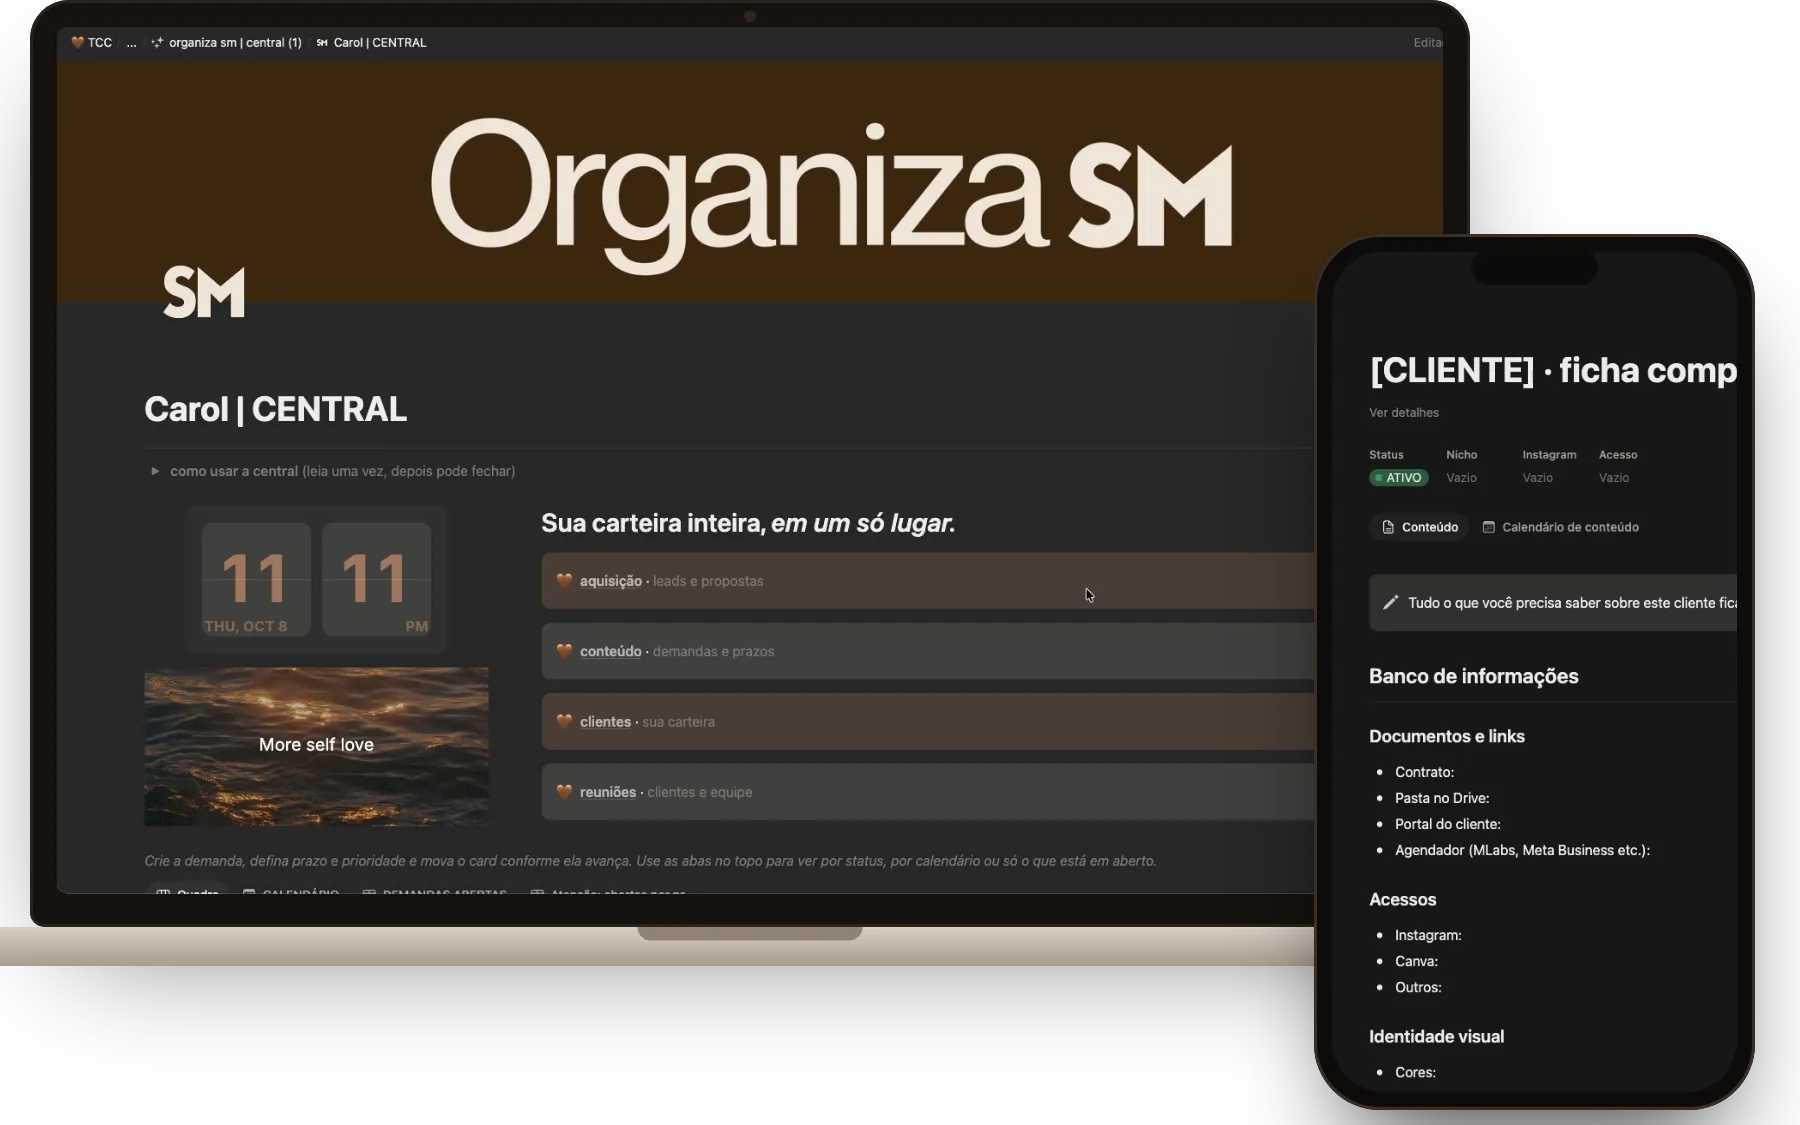
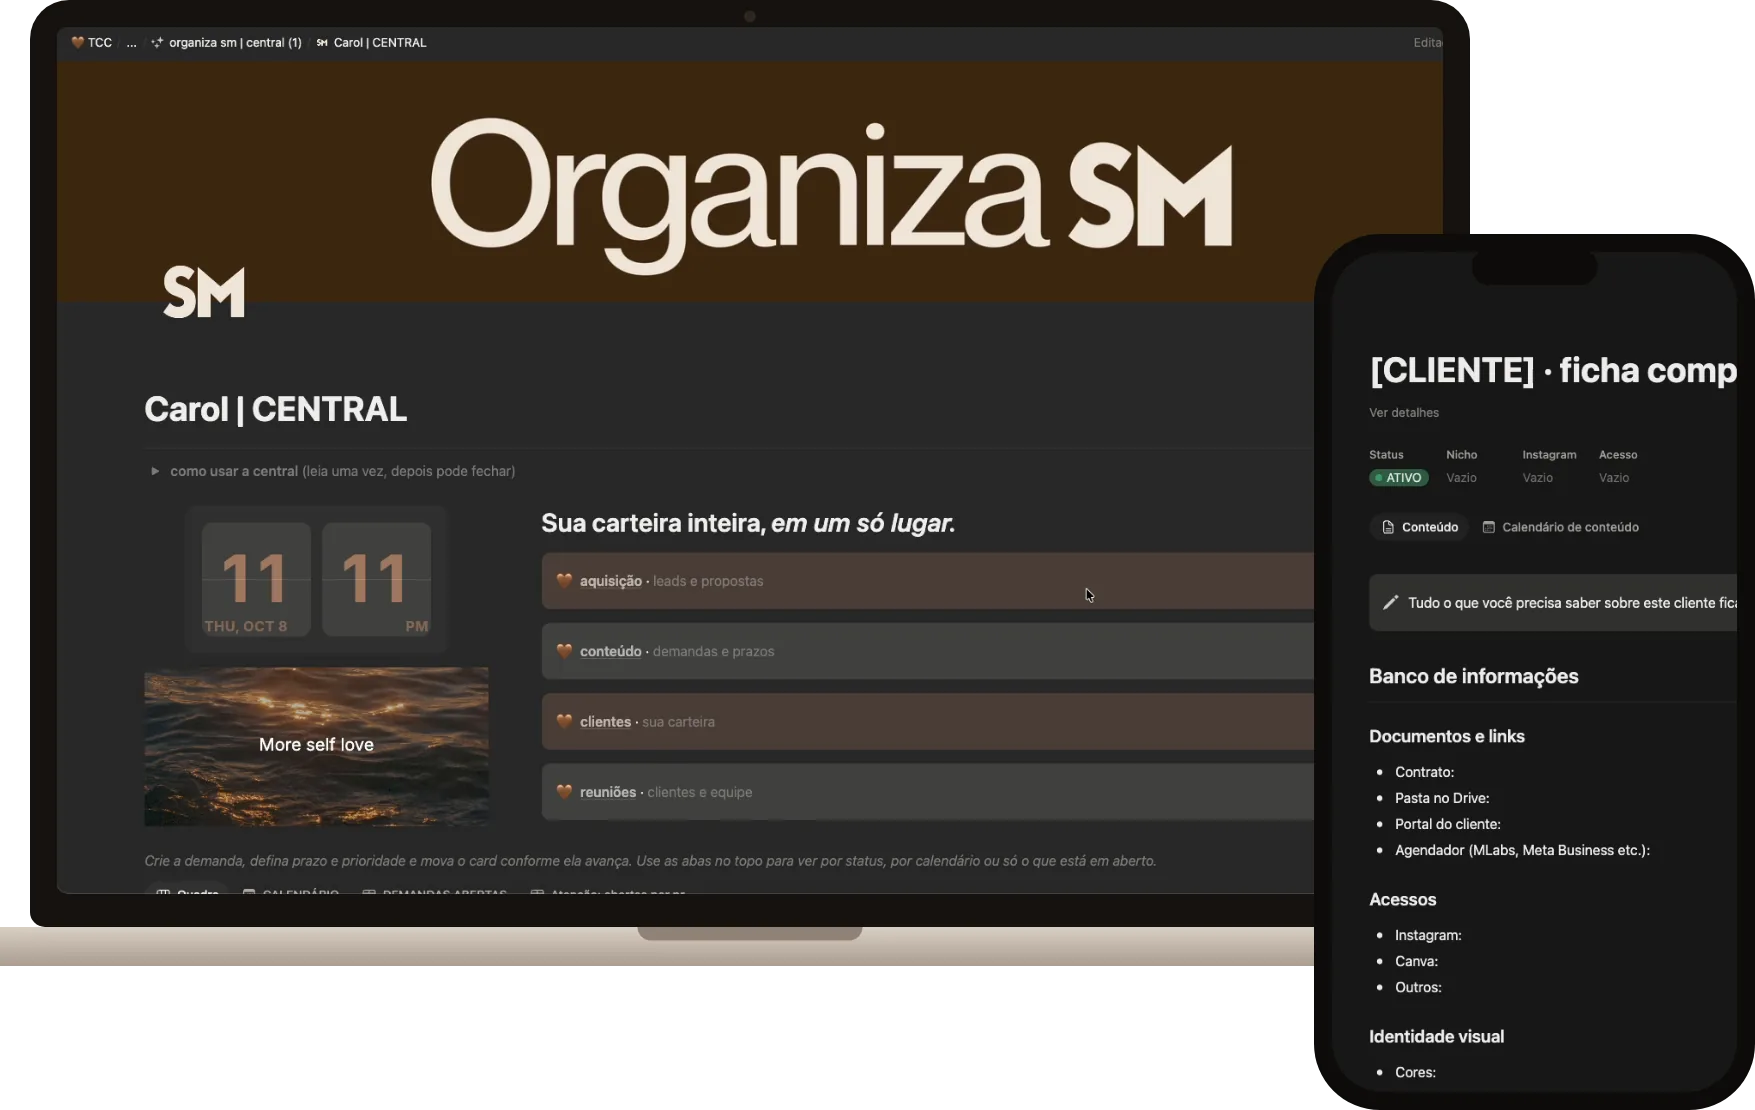
Arruma a sombra do mockup, o vídeo dos setores e a prova no celular
Mockups refeitos sem sombra embutida (ela era cortada nas bordas e formava um retângulo); a sombra agora vem do CSS e acompanha o contorno. Na seção dos 7 setores, o vídeo fica grande em cima e os setores em cartões embaixo. Na prova, os números ficam lado a lado no celular e o espaço até o preço some (o padding padrão do celular estava vencendo o ajuste).

Claude-Session: https://claude.ai/code/session_01HdQpeBiasab2XV5vHhs1tT

diff --git a/assets/css/style.css b/assets/css/style.css
@@ -778,16 +778,16 @@ strong, b { font-weight: 700; }
 .hero-list li, .pc-list li { display: flex; gap: 10px; align-items: flex-start; line-height: 1.4; }
 .hero-list li { font-size: .95rem; color: var(--beige); }
 .hero-list svg, .pc-list svg { flex: none; margin-top: 3px; color: var(--caramel-soft); }
-.hero-shot img { filter: drop-shadow(0 30px 40px rgba(0, 0, 0, .35)); }
+.hero-shot img { filter: drop-shadow(0 28px 26px rgba(0, 0, 0, .42)) drop-shadow(0 4px 6px rgba(0, 0, 0, .25)); }
 
 /* 7 setores */
-.setores { list-style: none; margin: 0; padding: 0; counter-reset: s; display: grid; gap: 2px; }
-.setores li { counter-increment: s; display: grid; grid-template-columns: 34px 1fr; column-gap: 12px; padding: 12px 0; border-bottom: 1px dashed var(--beige); }
-.setores li:last-child { border-bottom: 0; }
+.setores { list-style: none; margin: 32px 0 0; padding: 0; counter-reset: s; display: flex; flex-wrap: wrap; justify-content: center; gap: 12px; }
+.setores li { counter-increment: s; flex: 1 1 100%; display: grid; grid-template-columns: 34px 1fr; column-gap: 12px; align-content: start; padding: 16px; background: var(--white); border: 1px solid var(--beige); border-radius: var(--r); }
 .setores li::before { content: counter(s); grid-row: span 2; width: 30px; height: 30px; border-radius: 50%; background: var(--brown); color: var(--cream); display: grid; place-items: center; font: 500 .9rem/1 var(--f-title); }
 .setores b { font: 500 1.08rem/1.3 var(--f-title); color: var(--brown); }
 .setores span { color: var(--brown-2); font-size: .95rem; }
-.setores-video { margin: 0; min-width: 0; }
+.setores-video { margin: 0 auto; max-width: 1000px; min-width: 0; }
+#produto .inside { display: block; margin-top: 36px; }
 
 /* antes e depois em pares */
 .vs { margin-top: 34px; display: grid; gap: 10px; }
@@ -834,8 +834,8 @@ strong, b { font-weight: 700; }
 .proof-stats div { display: flex; align-items: baseline; gap: 10px; }
 .proof-stats b { font: 300 2.6rem/1 var(--f-title); color: var(--brown); }
 .proof-stats span { font-size: .9rem; color: var(--brown-2); max-width: 150px; line-height: 1.3; }
-.sec-proof { padding-bottom: 28px; }
-.sec-price { padding-top: 12px; }
+.sec.sec-proof { padding-bottom: 24px; }
+.sec.sec-price { padding-top: 8px; }
 
 /* preço: o bloco inteiro cabe numa tela de celular */
 .price-card { background: var(--white); border: 1px solid var(--beige); border-radius: var(--r-lg); box-shadow: var(--shadow-lg); padding: 20px 18px; text-align: center; }
@@ -844,7 +844,7 @@ strong, b { font-weight: 700; }
 .pc-list { list-style: none; margin: 0; padding: 0; display: grid; gap: 6px; }
 .pc-list li { font-size: .86rem; color: var(--brown); }
 .pc-list svg { color: var(--caramel-ink); margin-top: 2px; }
-.pc-mock { width: 100%; height: auto; }
+.pc-mock { width: 100%; height: auto; filter: drop-shadow(0 16px 16px rgba(42, 29, 21, .28)); }
 .pc-price { margin: 12px 0 10px; font: 300 2.6rem/1 var(--f-title); color: var(--brown); }
 .pc-price s { font-size: 1.15rem; color: var(--brown-2); text-decoration-thickness: 2px; text-decoration-color: #B4543C; margin-right: 6px; vertical-align: middle; }
 .pc-price b { font-weight: 400; }
@@ -868,6 +868,7 @@ strong, b { font-weight: 700; }
   .pc-body { grid-template-columns: 1fr 220px; gap: 20px; }
   .pc-list li { font-size: .95rem; }
   .pc-price { font-size: 3.2rem; }
+  .setores li { flex: 0 1 calc(50% - 6px); }
 }
 @media (min-width: 960px) {
   .bonus-grid { grid-template-columns: repeat(3, minmax(0, 1fr)); }
@@ -875,6 +876,7 @@ strong, b { font-weight: 700; }
   .hero .hero-h2 { font-size: clamp(2.4rem, 3.3vw, 3.1rem); }
   .hero .nav { margin-bottom: 36px; }
   .inside { grid-template-columns: 1.2fr .8fr; }
+  .setores li { flex: 0 1 calc(25% - 9px); }
 }
 
 @media (max-width: 639px) {
@@ -889,6 +891,14 @@ strong, b { font-weight: 700; }
   .hero-list { gap: 5px; }
   .hero-shot { margin: 0 -6px; }
   .sticky-cta small { display: none; }
+  /* prova no celular: números lado a lado, alinhados, e menos espaço */
+  .proof-stats { display: grid; grid-template-columns: 1fr 1fr; gap: 12px; margin-bottom: 22px; }
+  .proof-stats div { flex-direction: column; align-items: center; gap: 4px; text-align: center; background: var(--white); border: 1px solid var(--beige); border-radius: var(--r); padding: 14px 10px; }
+  .proof-stats b { font-size: 2.2rem; }
+  .proof-stats span { font-size: .82rem; max-width: none; }
+  .sec-proof h2 { margin-bottom: 4px; }
+  .sec-proof .swipe-hint-cards { margin-top: 14px; }
+  .sec-proof .proofs { padding-bottom: 8px; }
   .pc-body { grid-template-columns: 1fr; gap: 6px; }
   .pc-mock { order: -1; width: 78%; margin: -4px auto 0; }
   .price-card .btn { font-size: .92rem; padding-inline: 14px; white-space: nowrap; }

diff --git a/index.html b/index.html
@@ -51,7 +51,7 @@
         </div>
       </div>
       <figure class="hero-shot">
-        <img src="assets/img/mockup-central.webp" alt="Central de clientes no Notion para social media aberta no notebook e no celular" width="1800" height="1125" fetchpriority="high">
+        <img src="assets/img/mockup-central.webp" alt="Central de clientes no Notion para social media aberta no notebook e no celular" width="1755" height="1110" fetchpriority="high">
       </figure>
       <div class="hero-cta">
         <a class="btn btn-cta btn-go" href="#oferta">Quero organizar minha carteira <span class="go" aria-hidden="true">→</span></a>
@@ -183,7 +183,7 @@
           <li><svg viewBox="0 0 24 24" width="16" height="16" aria-hidden="true"><path d="M5 12.5l4.2 4.2L19 7" fill="none" stroke="currentColor" stroke-width="2.4" stroke-linecap="round" stroke-linejoin="round"/></svg>Prompts de IA, modelo de relatório, planilha financeira e mensagens prontas</li>
           <li><svg viewBox="0 0 24 24" width="16" height="16" aria-hidden="true"><path d="M5 12.5l4.2 4.2L19 7" fill="none" stroke="currentColor" stroke-width="2.4" stroke-linecap="round" stroke-linejoin="round"/></svg>Todas as atualizações futuras</li>
         </ul>
-        <img class="pc-mock" src="assets/img/mockup-oferta.webp" alt="Central no Notion para social media com os bônus: +100 scripts de venda, +200 ganchos e planilha financeira" width="1800" height="1170" loading="lazy">
+        <img class="pc-mock" src="assets/img/mockup-oferta.webp" alt="Central no Notion para social media com os bônus: +100 scripts de venda, +200 ganchos e planilha financeira" width="1800" height="1107" loading="lazy">
       </div>
       <p class="pc-price"><s>R$ 286</s> <b>R$ 29,90</b></p>
       <a class="btn btn-cta btn-block btn-big btn-go" data-checkout="central" data-valor="29.90" data-item="Organiza SM completa" href="#">Quero a Organiza SM completa <span class="go" aria-hidden="true">→</span></a>

diff --git a/CLAUDE.md b/CLAUDE.md
@@ -50,17 +50,17 @@ Checkout: **Hubla**. Os links ficam em `CONFIG.checkout` (`assets/js/main.js`): 
 - **Alt das imagens:** com termo de busca ("central de clientes no Notion para social media" etc.)
 
 1. **Topo**: H1 pequeno "Sistema no Notion para social media", H2 grande "Se você já pensou em largar tudo e virar CLT, senta aqui.", a frase "Eu já gerenciei mais de 20 clientes ao mesmo tempo..." (sem foto), mockup (notebook e celular, `assets/img/mockup-central.webp`), botão e "Pix ou cartão · compra segura · 7 dias de garantia". Sem lista de itens. Em 375×667 tudo aparece sem rolar, na ordem texto, mockup, botão
-2. **Os 7 setores**: "Como organizar os clientes de social media num lugar só", o vídeo da central (sai do topo; só carrega quando aparece na tela) e os 7 setores com uma linha cada
+2. **Os 7 setores**: "Como organizar os clientes de social media num lugar só", o vídeo da central grande em cima (até 1000 px; só carrega quando aparece na tela) e embaixo os 7 setores em cartões (4 + 3 no computador, 2 por linha no tablet, um embaixo do outro no celular)
 3. **Antes e depois**: 6 pares "Hoje / Com a central" (no celular, cada par vira um cartão)
 4. **Bônus** (fundo escuro): 6 cartões, cada um com uma mini tela ilustrativa feita em HTML (scripts, ganchos, prompts, relatório, planilha, mensagens) e botão. No celular, carrossel
-5. **Prova**: "+20 clientes ao mesmo tempo · 1 agência construída com esse sistema" e os 5 prints (senha e orçamento primeiro)
+5. **Prova**: "+20 clientes ao mesmo tempo · 1 agência construída com esse sistema" (no celular, dois cartões lado a lado) e os 5 prints (senha e orçamento primeiro). O espaçamento colado no preço usa `.sec.sec-proof` e `.sec.sec-price` para vencer o padding padrão do celular
 6. **Preço** (colado na prova, mesmo fundo; único lugar com preço na página): "Hoje você leva", 6 itens, mockup da central com os bônus (`assets/img/mockup-oferta.webp`), ~~R$ 286~~ R$ 29,90, botão para o checkout e "Pix ou cartão · compra segura pela Hubla · central na hora, scripts no 7º dia · 7 dias de garantia". O cartão inteiro cabe numa tela de celular (testado em 360×640). Embaixo: link do WhatsApp e os complementos (ganchos e documentação, sem mudança)
 7. **Garantia**: selo, título e botão
 8. **FAQ** com 4 perguntas: saber usar o Notion, celular, como recebo o acesso (scripts no 7º dia), serve pra quem está começando
 9. **Fechamento**: título e botão "Quero parar de surtar"
 10. **Rodapé**: © Organiza SM, aviso da marca Notion e e-mail de suporte, sem botão. A barra fixa no celular continua
 
-Saíram: "Oi, eu sou a Carol" (Quem criou), a demonstração com abas, o "e vem junto", a pergunta sobre pagar o Notion e a de "e se eu não gostar". Os mockups foram montados com telas do vídeo da Carol (página inicial e ficha do cliente); para refazer, ver `assets/img/` e gerar de novo a partir de um print.
+Saíram: "Oi, eu sou a Carol" (Quem criou), a demonstração com abas, o "e vem junto", a pergunta sobre pagar o Notion e a de "e se eu não gostar". Os mockups foram montados com telas do vídeo da Carol, sem sombra embutida (a sombra é feita no CSS com `drop-shadow`, que acompanha o contorno) (página inicial e ficha do cliente); para refazer, ver `assets/img/` e gerar de novo a partir de um print.
 
 ## Página de WhatsApp (link de bio para campanhas)
 `whatsapp/index.html`, publicada em **organizasm.netlify.app/whatsapp**. Feita como uma página do Notion: capa da marca ("Organiza SM · seu escritório"), foto da Carol como ícone, título "Me conta como está a sua carteira hoje.", botão "Chamar no WhatsApp" (mesmo link de `CONFIG.contato.whatsapp`), perguntas de exemplo como etiquetas do Notion, um print de depoimento real e dois atalhos para o site (#produto e #oferta), sem preço. Tem o mesmo Pixel da Meta: PageView ao abrir e **Contact** ao clicar no WhatsApp. UTMs e fbclid da campanha seguem para os links do site. `noindex` para não aparecer no Google. No celular, o botão do WhatsApp aparece sem rolar. Se o link do WhatsApp mudar, trocar aqui e no `main.js`.
